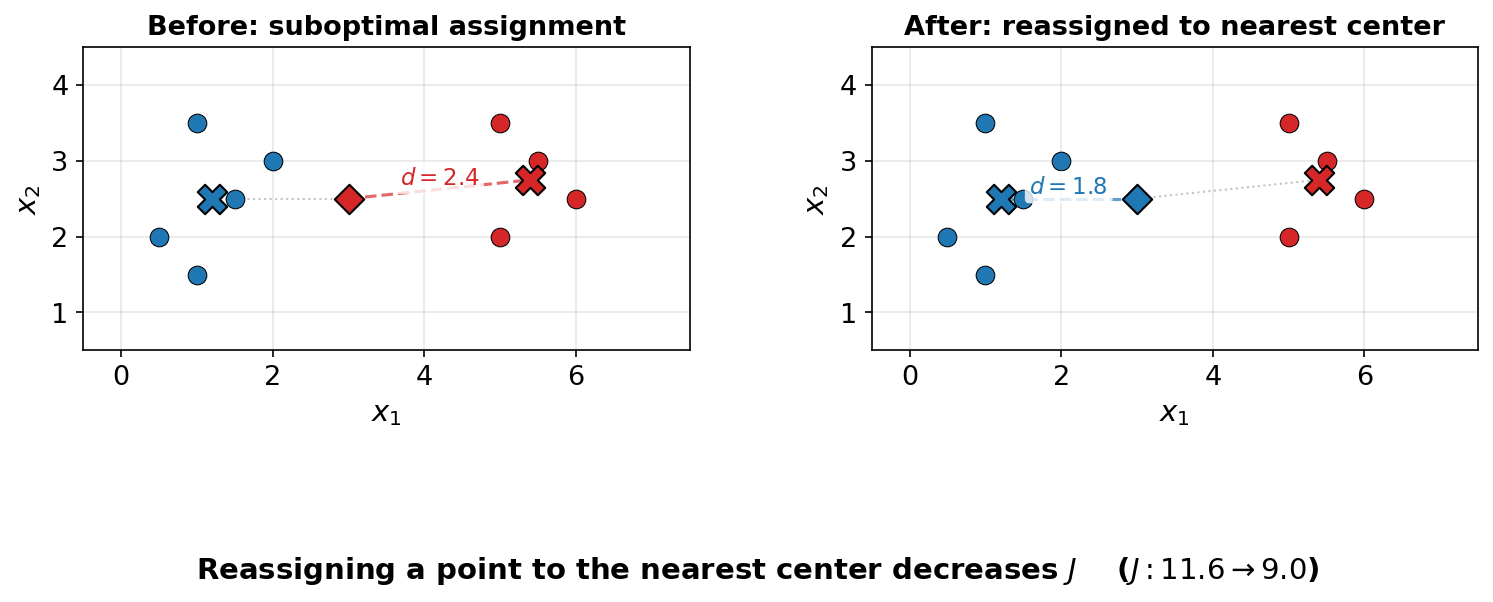
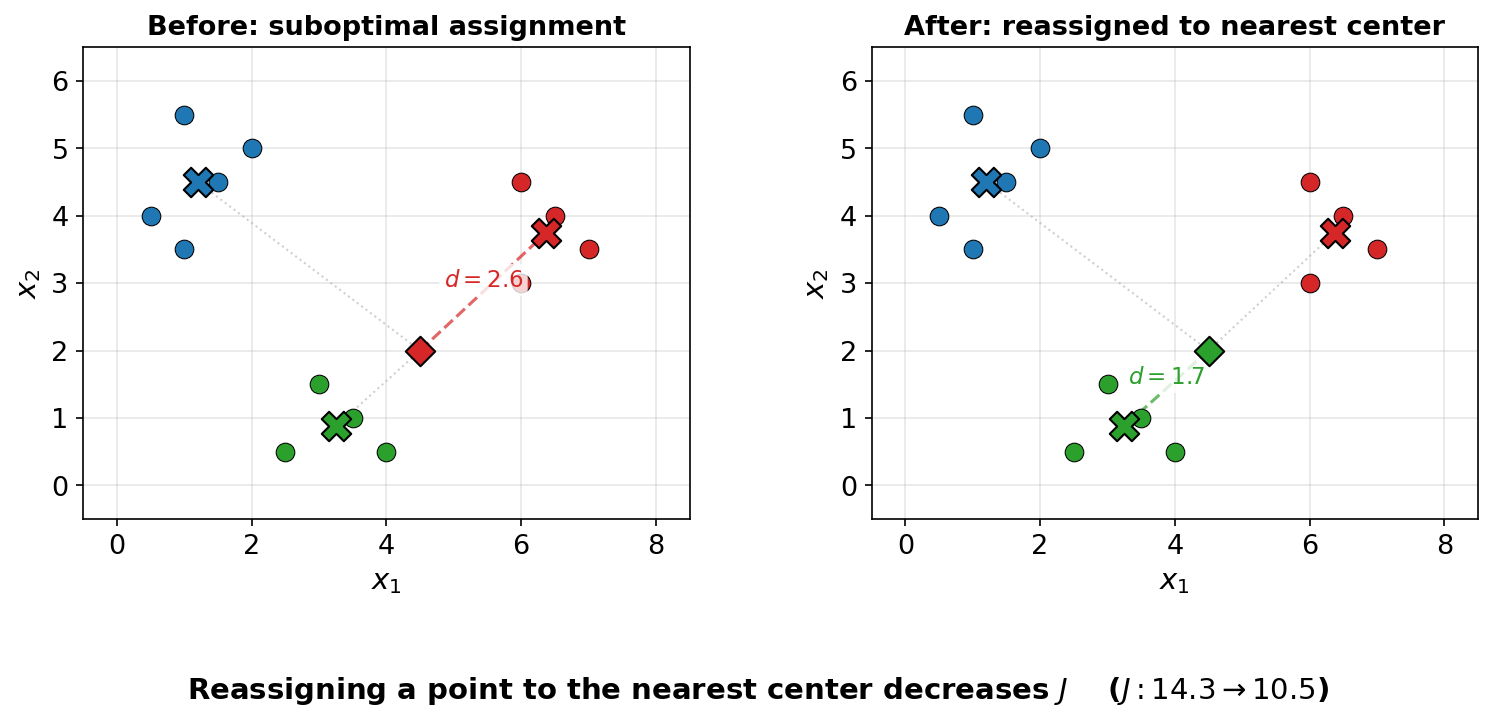
Update k-means diagrams to show 3 clusters

diff --git a/scripts/kmeans_diagrams.py b/scripts/kmeans_diagrams.py
@@ -1,6 +1,5 @@
 import numpy as np
 import matplotlib.pyplot as plt
-import matplotlib.patches as patches
 
 plt.rcParams.update({
     'figure.facecolor': 'white',
@@ -17,41 +16,47 @@ OUT = "/Users/alyxya/Desktop/alyxya.github.io/static/images/posts/kmeans-cluster
 # Colors
 RED = "#d62728"
 BLUE = "#1f77b4"
-RED_LIGHT = "#ffcccc"
-BLUE_LIGHT = "#cce0f5"
+GREEN = "#2ca02c"
 GRAY = "#888888"
+COLORS = [BLUE, RED, GREEN]
 
 
 # ── Diagram 1: Reassignment ──────────────────────────────────────────────────
 
-np.random.seed(42)
-# Cluster 1 (blue) points
-blue_pts = np.array([[1.0, 3.5], [1.5, 2.5], [0.5, 2.0], [2.0, 3.0], [1.0, 1.5]])
-# Cluster 2 (red) points
-red_pts = np.array([[5.0, 2.0], [5.5, 3.0], [6.0, 2.5], [5.0, 3.5]])
-# The misassigned point: currently red, but closer to blue center
-misassigned = np.array([3.0, 2.5])
+# Cluster 1 (blue) - top left
+blue_pts = np.array([[1.0, 5.5], [1.5, 4.5], [0.5, 4.0], [2.0, 5.0], [1.0, 3.5]])
+# Cluster 2 (red) - right
+red_pts = np.array([[6.0, 3.0], [6.5, 4.0], [7.0, 3.5], [6.0, 4.5]])
+# Cluster 3 (green) - bottom
+green_pts = np.array([[2.5, 0.5], [3.5, 1.0], [3.0, 1.5], [4.0, 0.5]])
 
-blue_center = np.array([1.2, 2.5])
-red_center = np.array([5.4, 2.75])
+# The misassigned point: currently red, but closer to green center
+misassigned = np.array([4.5, 2.0])
 
-fig, (ax1, ax2) = plt.subplots(1, 2, figsize=(12, 5))
+blue_center = blue_pts.mean(axis=0)
+red_center = red_pts.mean(axis=0)
+green_center = green_pts.mean(axis=0)
+
+all_clusters = [
+    (blue_pts, blue_center, BLUE),
+    (red_pts, red_center, RED),
+    (green_pts, green_center, GREEN),
+]
+
+fig, (ax1, ax2) = plt.subplots(1, 2, figsize=(12, 5.5))
 fig.subplots_adjust(wspace=0.3)
 
-for ax, title, assign_color, assign_center, other_center in [
-    (ax1, "Before: suboptimal assignment", RED, red_center, blue_center),
-    (ax2, "After: reassigned to nearest center", BLUE, blue_center, red_center),
+for ax, title, assign_color, assign_center in [
+    (ax1, "Before: suboptimal assignment", RED, red_center),
+    (ax2, "After: reassigned to nearest center", GREEN, green_center),
 ]:
-    # Plot cluster points
-    ax.scatter(blue_pts[:, 0], blue_pts[:, 1], c=BLUE, s=80, zorder=3, edgecolors='black', linewidths=0.5)
-    ax.scatter(red_pts[:, 0], red_pts[:, 1], c=RED, s=80, zorder=3, edgecolors='black', linewidths=0.5)
+    # Plot all cluster points
+    for pts, center, color in all_clusters:
+        ax.scatter(pts[:, 0], pts[:, 1], c=color, s=80, zorder=3, edgecolors='black', linewidths=0.5)
+        ax.scatter(*center, c=color, s=200, marker='X', zorder=5, edgecolors='black', linewidths=1.0)
 
     # Plot misassigned point
     ax.scatter(*misassigned, c=assign_color, s=100, zorder=4, edgecolors='black', linewidths=1.0, marker='D')
-
-    # Plot centers
-    ax.scatter(*blue_center, c=BLUE, s=200, marker='X', zorder=5, edgecolors='black', linewidths=1.0)
-    ax.scatter(*red_center, c=RED, s=200, marker='X', zorder=5, edgecolors='black', linewidths=1.0)
 
     # Draw line from misassigned point to its assigned center
     dist = np.linalg.norm(misassigned - assign_center)
@@ -63,21 +68,24 @@ for ax, title, assign_color, assign_center, other_center in [
                 ha='center', va='bottom', fontweight='bold',
                 bbox=dict(boxstyle='round,pad=0.2', facecolor='white', edgecolor='none', alpha=0.8))
 
-    # Draw faint line to other center for comparison
-    dist_other = np.linalg.norm(misassigned - other_center)
-    ax.plot([misassigned[0], other_center[0]], [misassigned[1], other_center[1]],
-            color=GRAY, linestyle=':', linewidth=1.0, alpha=0.5, zorder=1)
+    # Draw faint lines to other centers
+    for _, center, _ in all_clusters:
+        if not np.array_equal(center, assign_center):
+            ax.plot([misassigned[0], center[0]], [misassigned[1], center[1]],
+                    color=GRAY, linestyle=':', linewidth=1.0, alpha=0.4, zorder=1)
 
     ax.set_title(title, fontsize=13, fontweight='bold')
-    ax.set_xlim(-0.5, 7.5)
-    ax.set_ylim(0.5, 4.5)
+    ax.set_xlim(-0.5, 8.5)
+    ax.set_ylim(-0.5, 6.5)
     ax.set_aspect('equal')
     ax.set_xlabel("$x_1$")
     ax.set_ylabel("$x_2$")
 
-# Add J decrease annotation
-j_before = np.sum((blue_pts - blue_center)**2) + np.sum((red_pts - red_center)**2) + np.sum((misassigned - red_center)**2)
-j_after = np.sum((blue_pts - blue_center)**2) + np.sum((red_pts - red_center)**2) + np.sum((misassigned - blue_center)**2)
+# J values
+j_base = (np.sum((blue_pts - blue_center)**2) + np.sum((red_pts - red_center)**2)
+          + np.sum((green_pts - green_center)**2))
+j_before = j_base + np.sum((misassigned - red_center)**2)
+j_after = j_base + np.sum((misassigned - green_center)**2)
 
 fig.suptitle(f"Reassigning a point to the nearest center decreases $J$    ($J: {j_before:.1f} \\to {j_after:.1f}$)",
              fontsize=14, y=0.02, fontweight='bold')
@@ -89,38 +97,40 @@ print("Saved reassign-points.png")
 
 # ── Diagram 2: Center update ─────────────────────────────────────────────────
 
-np.random.seed(7)
-# Points in one cluster
-cluster_pts = np.array([
-    [1.5, 1.0], [2.5, 3.0], [3.5, 2.0], [2.0, 4.0], [4.0, 3.5], [1.0, 2.5],
-])
-# Other cluster (for context)
-other_pts = np.array([[7.0, 2.0], [7.5, 3.0], [8.0, 2.5], [7.0, 3.5], [8.5, 1.5]])
+# Blue cluster (the one whose center we'll move)
+blue_pts2 = np.array([[1.5, 1.0], [2.5, 3.0], [3.5, 2.0], [2.0, 4.0], [4.0, 3.5], [1.0, 2.5]])
+# Red cluster (context)
+red_pts2 = np.array([[7.0, 4.0], [7.5, 5.0], [8.0, 4.5], [7.0, 5.5]])
+# Green cluster (context)
+green_pts2 = np.array([[7.5, 0.5], [8.0, 1.5], [8.5, 1.0], [7.0, 1.0]])
 
 old_center = np.array([1.5, 3.5])  # Suboptimal center
-true_mean = cluster_pts.mean(axis=0)  # Optimal center = mean
-other_center = other_pts.mean(axis=0)
+true_mean = blue_pts2.mean(axis=0)  # Optimal center = mean
+red_center2 = red_pts2.mean(axis=0)
+green_center2 = green_pts2.mean(axis=0)
 
-fig, (ax1, ax2) = plt.subplots(1, 2, figsize=(12, 5))
+fig, (ax1, ax2) = plt.subplots(1, 2, figsize=(12, 5.5))
 fig.subplots_adjust(wspace=0.3)
 
 for ax, title, center, is_after in [
     (ax1, "Before: center not at mean", old_center, False),
     (ax2, "After: center moved to mean", true_mean, True),
 ]:
-    # Plot other cluster
-    ax.scatter(other_pts[:, 0], other_pts[:, 1], c=RED, s=80, zorder=3, edgecolors='black', linewidths=0.5)
-    ax.scatter(*other_center, c=RED, s=200, marker='X', zorder=5, edgecolors='black', linewidths=1.0)
+    # Plot context clusters
+    ax.scatter(red_pts2[:, 0], red_pts2[:, 1], c=RED, s=80, zorder=3, edgecolors='black', linewidths=0.5)
+    ax.scatter(*red_center2, c=RED, s=200, marker='X', zorder=5, edgecolors='black', linewidths=1.0)
+    ax.scatter(green_pts2[:, 0], green_pts2[:, 1], c=GREEN, s=80, zorder=3, edgecolors='black', linewidths=0.5)
+    ax.scatter(*green_center2, c=GREEN, s=200, marker='X', zorder=5, edgecolors='black', linewidths=1.0)
 
-    # Plot main cluster points
-    ax.scatter(cluster_pts[:, 0], cluster_pts[:, 1], c=BLUE, s=80, zorder=3, edgecolors='black', linewidths=0.5)
+    # Plot blue cluster points
+    ax.scatter(blue_pts2[:, 0], blue_pts2[:, 1], c=BLUE, s=80, zorder=3, edgecolors='black', linewidths=0.5)
 
     # Plot center
     ax.scatter(*center, c=BLUE, s=200, marker='X', zorder=5, edgecolors='black', linewidths=1.0)
 
     # Draw lines from points to center
     total_sq_dist = 0
-    for pt in cluster_pts:
+    for pt in blue_pts2:
         d = np.linalg.norm(pt - center)
         total_sq_dist += d**2
         ax.plot([pt[0], center[0]], [pt[1], center[1]],
@@ -140,13 +150,13 @@ for ax, title, center, is_after in [
 
     ax.set_title(title, fontsize=13, fontweight='bold')
     ax.set_xlim(-0.5, 10)
-    ax.set_ylim(-0.2, 5.2)
+    ax.set_ylim(-0.5, 6.5)
     ax.set_aspect('equal')
     ax.set_xlabel("$x_1$")
     ax.set_ylabel("$x_2$")
 
-j_before_cluster = sum(np.sum((pt - old_center)**2) for pt in cluster_pts)
-j_after_cluster = sum(np.sum((pt - true_mean)**2) for pt in cluster_pts)
+j_before_cluster = sum(np.sum((pt - old_center)**2) for pt in blue_pts2)
+j_after_cluster = sum(np.sum((pt - true_mean)**2) for pt in blue_pts2)
 
 fig.suptitle(f"Moving center to the mean decreases $J$    ($\\Sigma d^2: {j_before_cluster:.1f} \\to {j_after_cluster:.1f}$)",
              fontsize=14, y=0.02, fontweight='bold')
